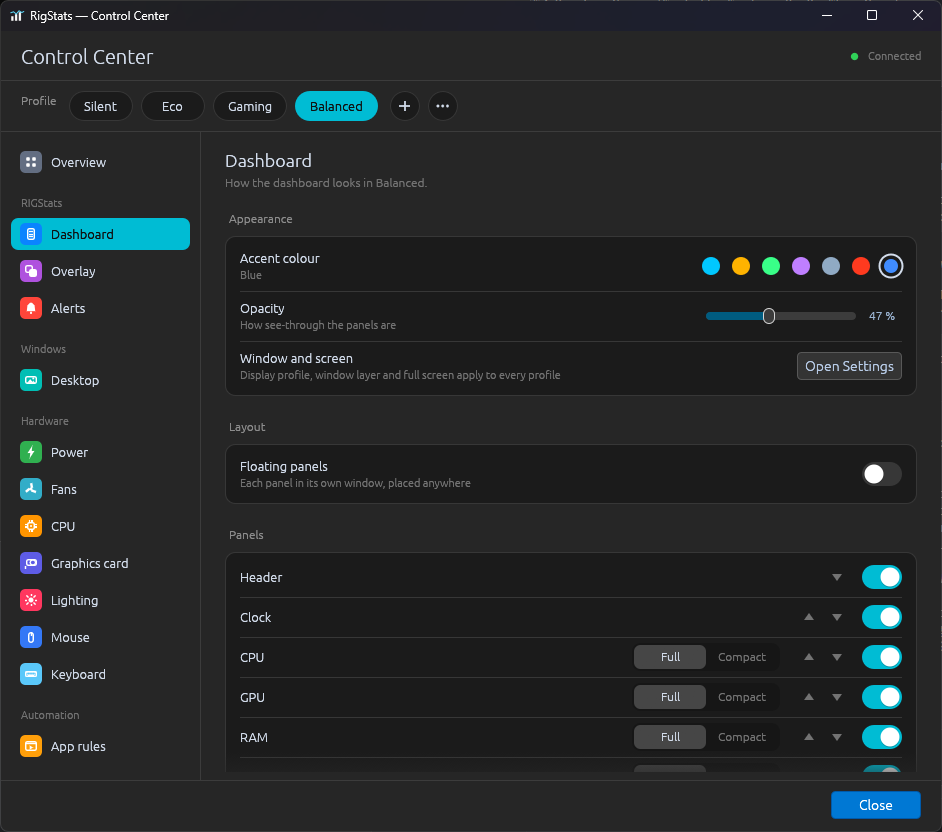
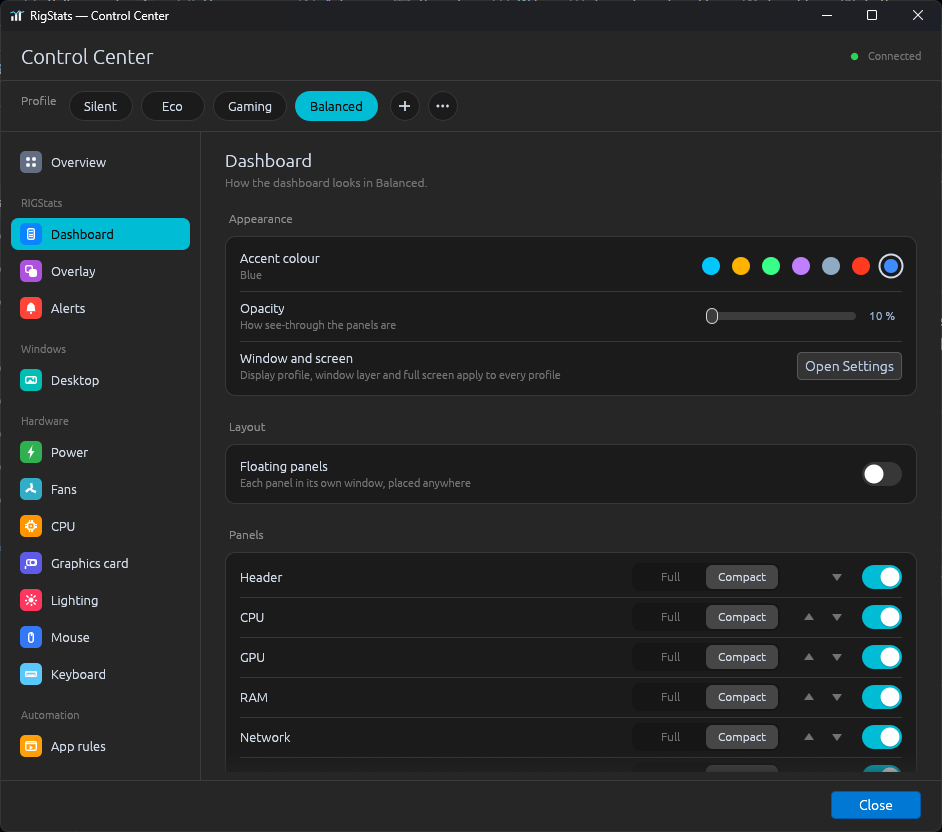
docs: floating, wallpaper, overlay, tray and signed dialogs for 1.52
From the owner's PC on v1.52.0-rc.4 (signed, so the Control Center and
Status show real data, not the debug build's refusal):

- floating mode, full and compact (new floating-mode-compact.png, shown
  under it on the website), the desktop wallpaper, the overlay and its
  close-up, the tray card with the microphone glyph
- Control Center Overview and Dashboard, Status, Settings Display (panel
  spacing) and Notifications (the profile switches)
- feature graphic from the retaken landscape dashboard

Alt texts follow what the pictures now show.

diff --git a/website/index.html b/website/index.html
@@ -245,6 +245,7 @@
       <div class="floating-showcase">
         <div class="screen-wrap screen-wrap--wide">
           <img src="images/floating-mode.png" alt="RIGStats floating panel layout — individual panels placed across the screen" class="hero-img">
+          <img src="images/floating-mode-compact.png" alt="The same floating panels drawn compact: rings and values in columns, about half the height" class="hero-img" loading="lazy">
         </div>
         <ul class="floating-features">
           <li>Each panel is an independent frameless window</li>
@@ -282,7 +283,7 @@
         <p>Mount the dashboard directly into the Windows desktop layer — permanently visible on your primary monitor, never overlapping your apps or taskbar.</p>
       </header>
       <div class="screen-wrap screen-wrap--wide wallpaper-shot">
-        <img src="images/rigStats-desktop-wallpaper.png" alt="RIGStats panels rendered in the Windows desktop wallpaper layer — the Recycle Bin icon sits in front of the RAM Usage panel, showing the dashboard lives behind the desktop icons" class="hero-img">
+        <img src="images/rigStats-desktop-wallpaper.png" alt="RIGStats panels rendered in the Windows desktop wallpaper layer — compact panels in one column, and the Recycle Bin icon sits in front of the Motherboard panel, showing the dashboard lives behind the desktop icons" class="hero-img">
       </div>
       <ul class="features-grid">
         <li class="feature-card">
@@ -319,10 +320,10 @@
       <div class="floating-showcase">
         <div class="dual-shots">
           <div class="screen-wrap screen-wrap--wide">
-            <img src="images/overlay-mode.png" alt="RIGStats compact overlay strip in the top-left corner while playing a game, showing CPU and GPU temperature, load, clocks, power, VRAM, RAM usage, and ping" class="hero-img">
+            <img src="images/overlay-mode.png" alt="RIGStats overlay in the top-left corner while playing a game, showing CPU and GPU load and temperature and RAM usage" class="hero-img">
           </div>
           <div class="screen-wrap">
-            <img src="images/overlay-mode-close.png" alt="Close-up of the overlay's metric strip, with warn/crit values colored yellow and orange" class="hero-img">
+            <img src="images/overlay-mode-close.png" alt="Close-up of the overlay: each metric's label on the left and its value right-aligned beside it, colored by the alert thresholds" class="hero-img">
           </div>
         </div>
         <ul class="floating-features">
@@ -982,7 +983,7 @@
               <li>Color-coded bar using the Battery panel's thresholds</li>
               <li>Also without opening anything: hover the RIGStats tray icon</li>
             </ul>
-            <img src="images/tray-card.png" alt="Tray hover card: RIGStats with ROG Azoth X, ROG Delta II and ROG Harpe Ace Aim Lab Edition, each with its 2.4 GHz connection, a battery glyph and the charge in percent" style="max-width:100%;margin:10px 0 6px;border-radius:6px">
+            <img src="images/tray-card.png" alt="Tray hover card: RIGStats with the muted microphone glyph, then ROG Azoth X and ROG Harpe Ace Aim Lab Edition, each with its 2.4 GHz connection, a battery glyph and the charge in percent" style="max-width:100%;margin:10px 0 6px;border-radius:6px">
             <span class="source-tag">Sensor service</span>
           </div>
         </article>

diff --git a/website/style.css b/website/style.css
@@ -244,6 +244,10 @@ code {
   display: block;
   margin: 0 auto;
 }
+/* Two shots in one frame (floating mode: full, then compact). */
+.hero-img + .hero-img {
+  margin-top: 12px;
+}
 
 /* Hero: portrait + landscape shots stacked to show both orientations. */
 .hero-shots {
